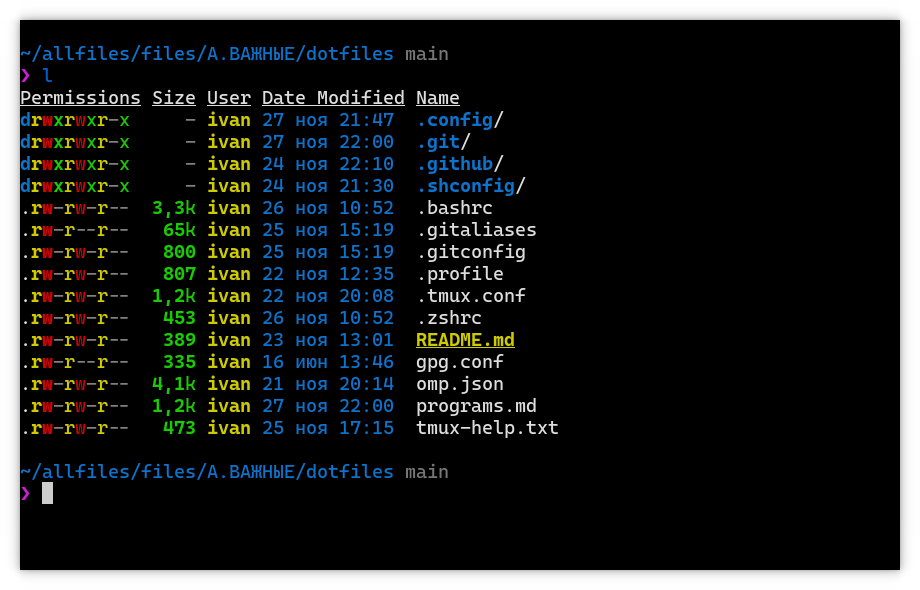
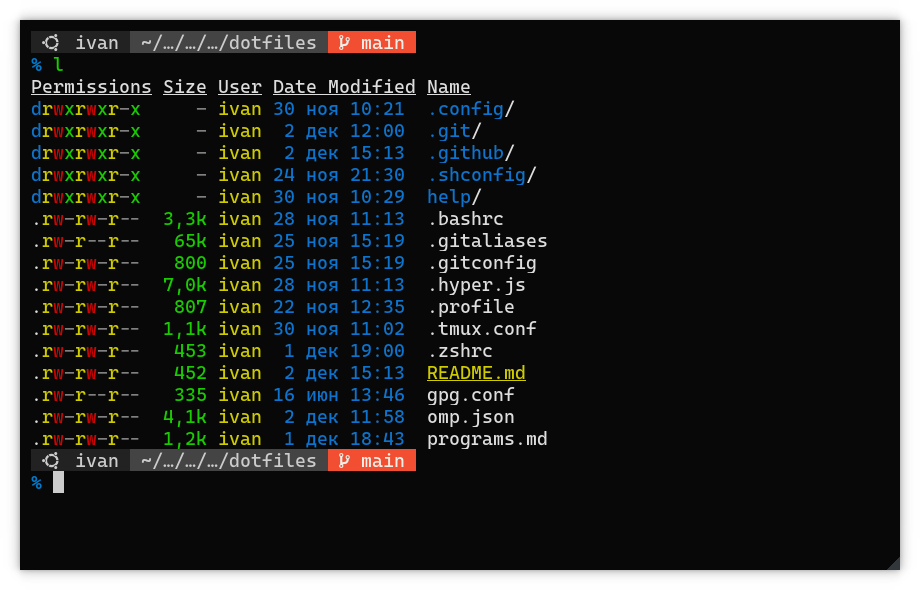
omp

Changed region(s): [[0.0, 0.0305, 0.6087, 0.8542], [0.9739, 0.9458, 1.0, 0.9763]]

diff --git a/README.md b/README.md
@@ -1,5 +1,3 @@
-![Скриншот терминала](.github/terminal.png)
-
 # dotfiles
 
 Мои "dotfiles".
@@ -13,3 +11,8 @@ P.S. Директория `.github` нужна **только** на GitHub.
 ## Установка
 
 Инструкций **нет** и **не будет**. Лень писать =)
+
+## Скриншоты
+
+![Тема Oh My Posh](.github/omp.png)
+![Скриншот терминала](.github/terminal.png)
